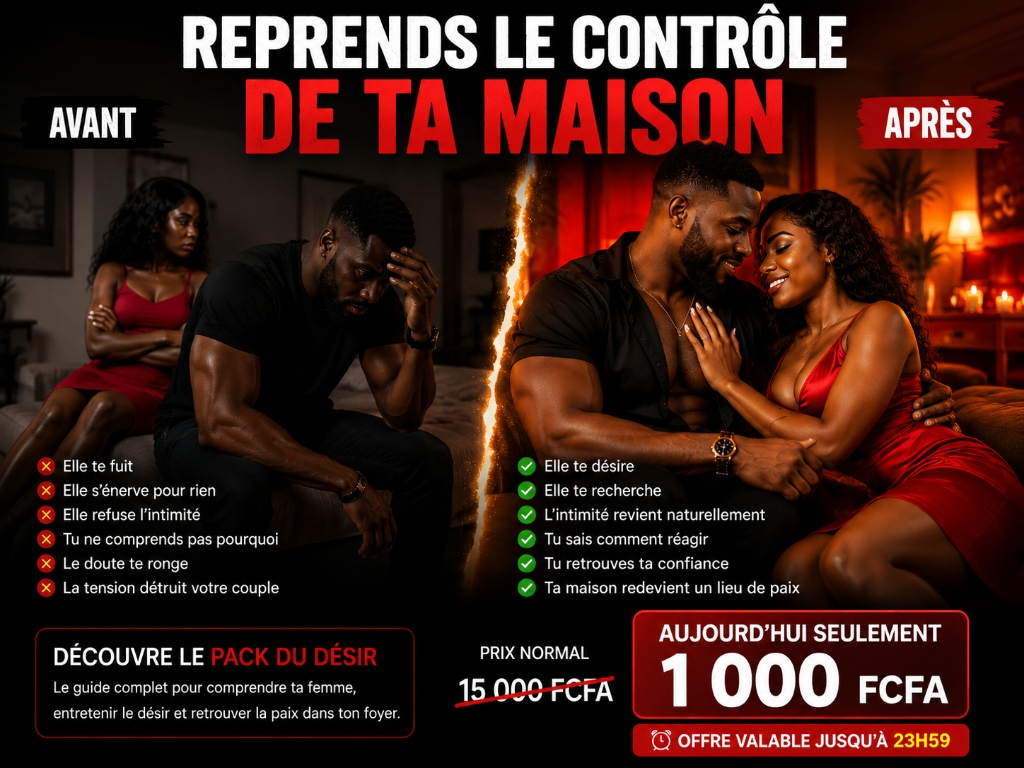
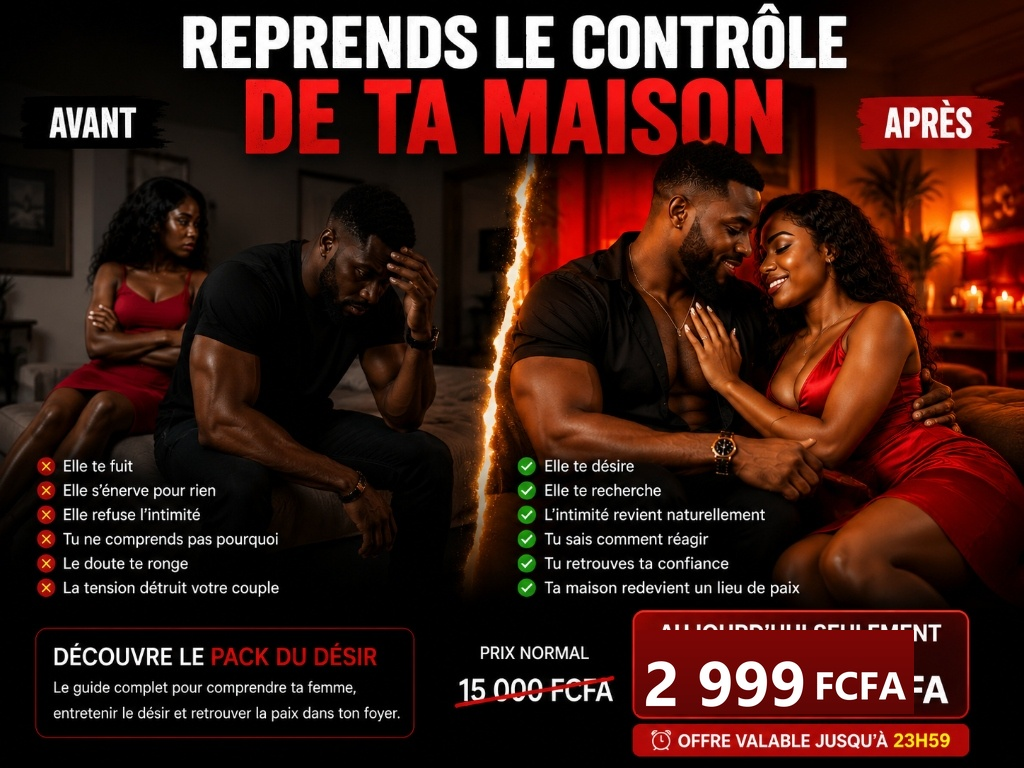
feat: update avant-apres comparison image price to 2999 FCFA

Changed region(s): [[0.625, 0.8125, 0.9062, 0.9375]]

diff --git a/fou-de-toi-folle-de-toi.html b/fou-de-toi-folle-de-toi.html
@@ -90,9 +90,9 @@
       <span>🔥 <strong>OFFRE EXCLUSIVE DE LANCEMENT</strong> : -62% DE RÉDUCTION IMMÉDIATE</span>
       <div class="countdown-box">
         <span>FIN DANS :</span>
-        <span class="countdown-digit cd-hours">04</span>h
-        <span class="countdown-digit cd-minutes">39</span>m
-        <span class="countdown-digit cd-seconds">56</span>s
+        <span class="countdown-digit cd-hours">10</span>h
+        <span class="countdown-digit cd-minutes">53</span>m
+        <span class="countdown-digit cd-seconds">24</span>s
       </div>
       <span class="badge-pill badge-gold" style="padding: 2px 8px; font-size: 0.72rem;">23H59 DERNIER DÉLAI</span>
     </div>

diff --git a/fou-de-toi-folle-de-toi/index.html b/fou-de-toi-folle-de-toi/index.html
@@ -90,9 +90,9 @@
       <span>🔥 <strong>OFFRE EXCLUSIVE DE LANCEMENT</strong> : -62% DE RÉDUCTION IMMÉDIATE</span>
       <div class="countdown-box">
         <span>FIN DANS :</span>
-        <span class="countdown-digit cd-hours">04</span>h
-        <span class="countdown-digit cd-minutes">39</span>m
-        <span class="countdown-digit cd-seconds">56</span>s
+        <span class="countdown-digit cd-hours">10</span>h
+        <span class="countdown-digit cd-minutes">53</span>m
+        <span class="countdown-digit cd-seconds">24</span>s
       </div>
       <span class="badge-pill badge-gold" style="padding: 2px 8px; font-size: 0.72rem;">23H59 DERNIER DÉLAI</span>
     </div>

diff --git a/pack-du-desir.html b/pack-du-desir.html
@@ -94,9 +94,9 @@
       <span>🔥 <strong>OFFRE EXCLUSIVE DE LANCEMENT</strong> : -80% DE RÉDUCTION IMMÉDIATE</span>
       <div class="countdown-box">
         <span>FIN DANS :</span>
-        <span class="countdown-digit cd-hours">04</span>h
-        <span class="countdown-digit cd-minutes">39</span>m
-        <span class="countdown-digit cd-seconds">56</span>s
+        <span class="countdown-digit cd-hours">10</span>h
+        <span class="countdown-digit cd-minutes">53</span>m
+        <span class="countdown-digit cd-seconds">24</span>s
       </div>
       <span class="badge-pill badge-gold" style="padding: 2px 8px; font-size: 0.72rem;">23H59 DERNIER DÉLAI</span>
     </div>

diff --git a/pack-du-desir/index.html b/pack-du-desir/index.html
@@ -94,9 +94,9 @@
       <span>🔥 <strong>OFFRE EXCLUSIVE DE LANCEMENT</strong> : -80% DE RÉDUCTION IMMÉDIATE</span>
       <div class="countdown-box">
         <span>FIN DANS :</span>
-        <span class="countdown-digit cd-hours">04</span>h
-        <span class="countdown-digit cd-minutes">39</span>m
-        <span class="countdown-digit cd-seconds">56</span>s
+        <span class="countdown-digit cd-hours">10</span>h
+        <span class="countdown-digit cd-minutes">53</span>m
+        <span class="countdown-digit cd-seconds">24</span>s
       </div>
       <span class="badge-pill badge-gold" style="padding: 2px 8px; font-size: 0.72rem;">23H59 DERNIER DÉLAI</span>
     </div>
